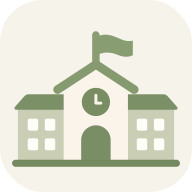
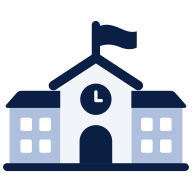
v5.0: 업데이트 안내 팝업, 딥 네이비 아이콘

diff --git a/src/components/AppLogo.tsx b/src/components/AppLogo.tsx
@@ -1,25 +1,24 @@
 /**
- * 티칭플로 로고(세이지 그린 학교 건물). public/favicon.svg(탭 아이콘)와 같은 그림이다.
+ * 티칭플로 로고(딥 네이비 학교 건물, 배경 없음). public/favicon.svg(탭 아이콘)와 같은 그림이다.
  * 바꿀 때는 public/favicon.svg, icon-192.png, icon-512.png 와 함께 바꾼다.
  */
 export default function AppLogo() {
   return (
     <svg viewBox="0 0 64 64" aria-hidden="true" focusable="false">
-      <rect width="64" height="64" rx="14" fill="#f6f3ea" />
-      <g transform="translate(-9.099 -6.495) scale(0.06550)">
-        <rect x="608" y="258" width="38" height="190" rx="19" fill="#899d72"/>
-        <path d="M640 283C690 262 728 290 768 304C790 311 805 308 815 306V380C800 389 772 392 742 380C705 364 672 362 640 376Z" fill="#899d72"/>
-        <path d="M230 655H465V915H230Z" fill="#c9ceb4"/>
-        <path d="M790 655H1025V915H790Z" fill="#c9ceb4"/>
-        <path d="M216 642 262 590Q271 579 285 579H470V658H226Q205 658 216 642Z" fill="#7c9067"/>
-        <path d="M1039 642 993 590Q984 579 970 579H785V658H1029Q1050 658 1039 642Z" fill="#7c9067"/>
-        <path d="M463 572 627 448 790 572V915H463Z" fill="#fbf4ea"/>
-        <path d="M432 555 627 427 822 555" fill="none" stroke="#869a6f" strokeWidth="44" strokeLinecap="round" strokeLinejoin="round"/>
-        <circle cx="627" cy="618" r="72" fill="#788d62"/>
-        <path d="M627 584V624H652" fill="none" stroke="#fbf4ea" strokeWidth="15" strokeLinecap="round" strokeLinejoin="round"/>
-        <path d="M552 915V812A75 75 0 0 1 702 812V915Z" fill="#7a8e66"/>
-        <g fill="#fefdf7"><rect x="280" y="703" width="53" height="61" rx="9"/><rect x="367" y="703" width="53" height="61" rx="9"/><rect x="280" y="803" width="53" height="61" rx="9"/><rect x="367" y="803" width="53" height="61" rx="9"/><rect x="835" y="703" width="53" height="61" rx="9"/><rect x="922" y="703" width="53" height="61" rx="9"/><rect x="835" y="803" width="53" height="61" rx="9"/><rect x="922" y="803" width="53" height="61" rx="9"/></g>
-        <rect x="200" y="912" width="855" height="36" rx="18" fill="#74895f"/>
+      <g transform="translate(-13.503 -11.726) scale(0.07251)">
+        <rect x="608" y="258" width="38" height="190" rx="19" fill="#0b1f45"/>
+        <path d="M640 283C690 262 728 290 768 304C790 311 805 308 815 306V380C800 389 772 392 742 380C705 364 672 362 640 376Z" fill="#0b1f45"/>
+        <path d="M230 655H465V915H230Z" fill="#aec0dd"/>
+        <path d="M790 655H1025V915H790Z" fill="#aec0dd"/>
+        <path d="M216 642 262 590Q271 579 285 579H470V658H226Q205 658 216 642Z" fill="#0b1f45"/>
+        <path d="M1039 642 993 590Q984 579 970 579H785V658H1029Q1050 658 1039 642Z" fill="#0b1f45"/>
+        <path d="M463 572 627 448 790 572V915H463Z" fill="#f1f4f8"/>
+        <path d="M432 555 627 427 822 555" fill="none" stroke="#0b1f45" strokeWidth="44" strokeLinecap="round" strokeLinejoin="round"/>
+        <circle cx="627" cy="618" r="72" fill="#0b1f45"/>
+        <path d="M627 584V624H652" fill="none" stroke="#ffffff" strokeWidth="15" strokeLinecap="round" strokeLinejoin="round"/>
+        <path d="M552 915V812A75 75 0 0 1 702 812V915Z" fill="#0b1f45"/>
+        <g fill="#ffffff"><rect x="280" y="703" width="53" height="61" rx="9"/><rect x="367" y="703" width="53" height="61" rx="9"/><rect x="280" y="803" width="53" height="61" rx="9"/><rect x="367" y="803" width="53" height="61" rx="9"/><rect x="835" y="703" width="53" height="61" rx="9"/><rect x="922" y="703" width="53" height="61" rx="9"/><rect x="835" y="803" width="53" height="61" rx="9"/><rect x="922" y="803" width="53" height="61" rx="9"/></g>
+        <rect x="200" y="912" width="855" height="36" rx="18" fill="#0b1f45"/>
       </g>
     </svg>
   )

diff --git a/src/releaseNotes.ts b/src/releaseNotes.ts
@@ -1,13 +1,19 @@
 import { APP_VERSION } from './storage'
-export const releaseNoticeKey=`teachingflow-release-seen:${APP_VERSION}:widgets-2026-10`
-export const releaseHighlights=[
- '내 화면에 맞게 자유롭게: 위젯을 추가하고 위치와 크기를 조절하세요. 큰 모니터에서는 더 많은 위젯을 배치할 수 있습니다.',
- '오늘 화면에서 바로 편집: 상단의 위젯 추가·화면 편집 버튼을 이용하세요. 작은 위젯은 요약으로 보고 눌러서 펼칠 수 있습니다.',
- '위젯마다 다르게: 이름과 글자 크기를 바꾸고, 제목+테두리·제목만·테두리만·둘 다 없음 중에서 선택할 수 있습니다.',
- '달력도 내 방식으로: 1·2·3·4주 또는 월간으로 보고, 표시할 자료를 체크해 모아보세요. 이름을 달리한 달력을 여러 개 놓을 수도 있습니다.',
- '필요한 수업 기록만: 지난 수업·어제·이번 주·최근 며칠 등 조회 기간을 선택하고, 기록이 있는 수업만 모아볼 수 있습니다.',
- '각 위젯의 ⚙ 버튼에서 설정하세요. 기존 기록과 메모는 그대로 유지됩니다.',
-]
+import { GOOGLE_CLIENT_ID } from './googleDrive'
+export const releaseTitle=`티칭플로 ${APP_VERSION} 업데이트`
+export const releaseNoticeKey=`teachingflow-release-seen:${APP_VERSION}:2026-11`
+/** '제목: 설명' 형식. 팝업에서 콜론 앞을 굵게 표시한다. */
+export function releaseHighlightsFor(driveEnabled:boolean){
+ return [
+  '기간 업무를 날마다 체크: 기간으로 등록한 업무는 오늘의 할 일에서 체크하면 그날만 완료되고, 다음 날 다시 표시됩니다. 업무 목록에서 ‘매일 체크 3/10일’처럼 진행 현황을 볼 수 있고, 기간 전체를 끝냈을 때는 업무 목록의 체크박스나 달력 팝업의 ‘기간 전체 완료’를 누르세요.',
+  '완료 업무 되돌리기: 실수로 완료 처리한 업무는 업무 › 히스토리의 ‘미완료로 되돌리기’로 원래대로 돌릴 수 있습니다.',
+  '인터넷 없이 사용: 인터넷이 될 때 한 번 열어 두면 인터넷이 끊겨도 같은 주소로 열립니다. 주소창 오른쪽의 앱 설치 아이콘을 누르면 바탕화면에서 프로그램처럼 쓸 수 있습니다.',
+  '전체 기록 엑셀로 받기: 환경설정 › 데이터 관리에서 명단·진도표·수업 기록·출결과 특기사항·평가 점수·업무·담임·동아리 기록을 기능별 시트로 나눈 엑셀 파일 하나로 받을 수 있습니다.',
+  ...(driveEnabled?['Google Drive 백업: 환경설정 › 데이터 관리에서 내 Google 계정에 백업을 저장하고 불러올 수 있습니다. 학교·교육청 계정은 막힐 수 있으니 개인 Gmail로 연결하세요. 자동 저장이 아니므로 다른 기기에서 쓰기 전에는 불러오기, 끝나면 백업 저장을 눌러 주세요.']:[]),
+  '기존 기록과 설정은 그대로 유지됩니다. 자세한 사용법은 환경설정 › 도움말에서 확인하세요.',
+ ]
+}
+export const releaseHighlights=releaseHighlightsFor(!!GOOGLE_CLIENT_ID)
 
 export function shouldShowRelease(storage:Pick<Storage,'getItem'>){try{return storage.getItem(releaseNoticeKey)!=='1'}catch{return true}}
 export function markReleaseSeen(storage:Pick<Storage,'setItem'>){try{storage.setItem(releaseNoticeKey,'1');return true}catch{return false}}

diff --git a/src/components/UpdateNotice.tsx b/src/components/UpdateNotice.tsx
@@ -1,9 +1,32 @@
-import { useEffect, useState } from 'react'
-import { markReleaseSeen, releaseHighlights, shouldShowRelease } from '../releaseNotes'
-export default function UpdateNotice(){
- const [open,setOpen]=useState(()=>{try{return shouldShowRelease(localStorage)}catch{return true}})
- const close=()=>{try{markReleaseSeen(localStorage)}catch{};setOpen(false)}
- useEffect(()=>{if(!open)return;const escape=(e:KeyboardEvent)=>{if(e.key==='Escape')close()};window.addEventListener('keydown',escape);return()=>window.removeEventListener('keydown',escape)},[open])
- if(!open)return null
- return <div className="release-backdrop"><section className="release-dialog" role="dialog" aria-modal="true" aria-labelledby="release-title" onKeyDown={event=>{if(event.key==='Tab'){event.preventDefault();event.currentTarget.querySelector('button')?.focus()}}}><h2 id="release-title">티칭플로 위젯 업데이트</h2><ul>{releaseHighlights.map(text=><li key={text}>{text}</li>)}</ul><p className="hint">확인하면 이 브라우저에서는 다시 표시하지 않습니다.</p><button autoFocus className="primary-button" onClick={close}>확인</button></section></div>
+import { useState } from 'react'
+import { markReleaseSeen, releaseHighlights, releaseTitle, shouldShowRelease } from '../releaseNotes'
+
+/** 업데이트 안내. ‘다시 보지 않기’를 체크하고 닫으면 이 버전에서는 다시 띄우지 않고, 체크하지 않으면 다음에 열 때 다시 보여준다. */
+export default function UpdateNotice() {
+  const [open, setOpen] = useState(() => { try { return shouldShowRelease(localStorage) } catch { return true } })
+  const [dontShow, setDontShow] = useState(false)
+  const close = () => { if (dontShow) { try { markReleaseSeen(localStorage) } catch { /* 저장소를 못 쓰면 다음에 다시 표시 */ } } setOpen(false) }
+  if (!open) return null
+  return <div className="release-backdrop">
+    <section className="release-dialog" role="dialog" aria-modal="true" aria-labelledby="release-title"
+      onKeyDown={event => {
+        if (event.key === 'Escape') { close(); return }
+        if (event.key !== 'Tab') return
+        const items = [...event.currentTarget.querySelectorAll<HTMLElement>('input,button')]
+        const index = items.indexOf(document.activeElement as HTMLElement)
+        event.preventDefault()
+        items[(index + (event.shiftKey ? -1 : 1) + items.length) % items.length]?.focus()
+      }}>
+      <h2 id="release-title">{releaseTitle}</h2>
+      <p className="hint">이번 업데이트에서 달라진 점입니다.</p>
+      <ul>{releaseHighlights.map(text => {
+        const split = text.indexOf(':')
+        return <li key={text}>{split > 0 ? <><b>{text.slice(0, split)}</b>{text.slice(split)}</> : text}</li>
+      })}</ul>
+      <div className="release-actions">
+        <label className="release-dont-show"><input type="checkbox" checked={dontShow} onChange={event => setDontShow(event.target.checked)} /> 다시 보지 않기</label>
+        <button autoFocus className="primary-button" onClick={close}>닫기</button>
+      </div>
+    </section>
+  </div>
 }

diff --git a/src/components/TeacherDeskView.css b/src/components/TeacherDeskView.css
@@ -111,7 +111,10 @@
 .release-backdrop { position:fixed; inset:0; background:#0007; z-index:1000; display:grid; place-items:center; padding:1rem; }
 .release-dialog { width:min(600px,100%); max-height:85vh; overflow:auto; padding:1.5rem; border-radius:.8rem; background:var(--card); color:var(--ink); box-shadow:0 12px 60px #0003; }
 .release-dialog h2 { margin:0 0 1rem; }
-.release-dialog li { margin:.7rem 0; }
+.release-dialog li { margin:.7rem 0; line-height:1.6; }
+.release-dialog > .hint { margin:-.6rem 0 .4rem; }
+.release-actions { display:flex; align-items:center; justify-content:space-between; gap:1rem; margin-top:1.2rem; flex-wrap:wrap; }
+.release-dont-show { display:flex; align-items:center; gap:.4rem; cursor:pointer; font-size:.92rem; }
 .home-widget { container-type:inline-size; overflow-wrap:anywhere; }
 .home-widget-summary { overflow:auto; height:100%; }
 .home-widget .desk-heading { min-width:0; }

diff --git a/public/sw.js b/public/sw.js
@@ -3,7 +3,7 @@
 // - 글꼴: 한 번 받은 글꼴 파일을 저장해 두고 오프라인에서도 같은 글꼴로 보이게 한다.
 // - 기록 데이터는 서비스 워커와 무관하게 브라우저 저장소(localStorage)에 그대로 있다.
 // - Google 로그인·Drive 요청은 건드리지 않는다(인터넷이 있어야 동작).
-const APP_CACHE = 'teachingflow-app-v3'
+const APP_CACHE = 'teachingflow-app-v4'
 const FONT_CACHE = 'teachingflow-fonts-v1'
 const APP_FILES = ['./', './index.html', './manifest.webmanifest', './favicon.svg', './icon-192.png', './icon-512.png']
 const FONT_HOSTS = ['cdn.jsdelivr.net', 'fonts.googleapis.com', 'fonts.gstatic.com']

diff --git a/src/storage.ts b/src/storage.ts
@@ -6,7 +6,7 @@ import { defaultWorkspacePreferences, normalizeWorkspacePreferences } from './wo
 import type { AppData, Evaluation, EvaluationItem, EvaluationTask, LessonType, EvaluationType, Subject, TaskStatus } from './types'
 import { subjectColorsForTheme } from './theme'
 
-export const APP_VERSION = 'v4.5'
+export const APP_VERSION = 'v5.0'
 export const APP_NAME = '티칭플로'
 export const APP_TAGLINE = 'TEACHING FLOW ― 수업의 흐름을 한눈에'
 const STORAGE_KEY = 'class-schedule-planner-data'

diff --git a/index.html b/index.html
@@ -10,7 +10,7 @@
     <link rel="manifest" href="./manifest.webmanifest" />
     <link rel="icon" href="./favicon.svg" type="image/svg+xml" />
     <link rel="apple-touch-icon" href="./icon-192.png" />
-    <meta name="theme-color" content="#7a8e66" />
+    <meta name="theme-color" content="#0b1f45" />
   </head>
   <body>
     <div id="root"></div>
